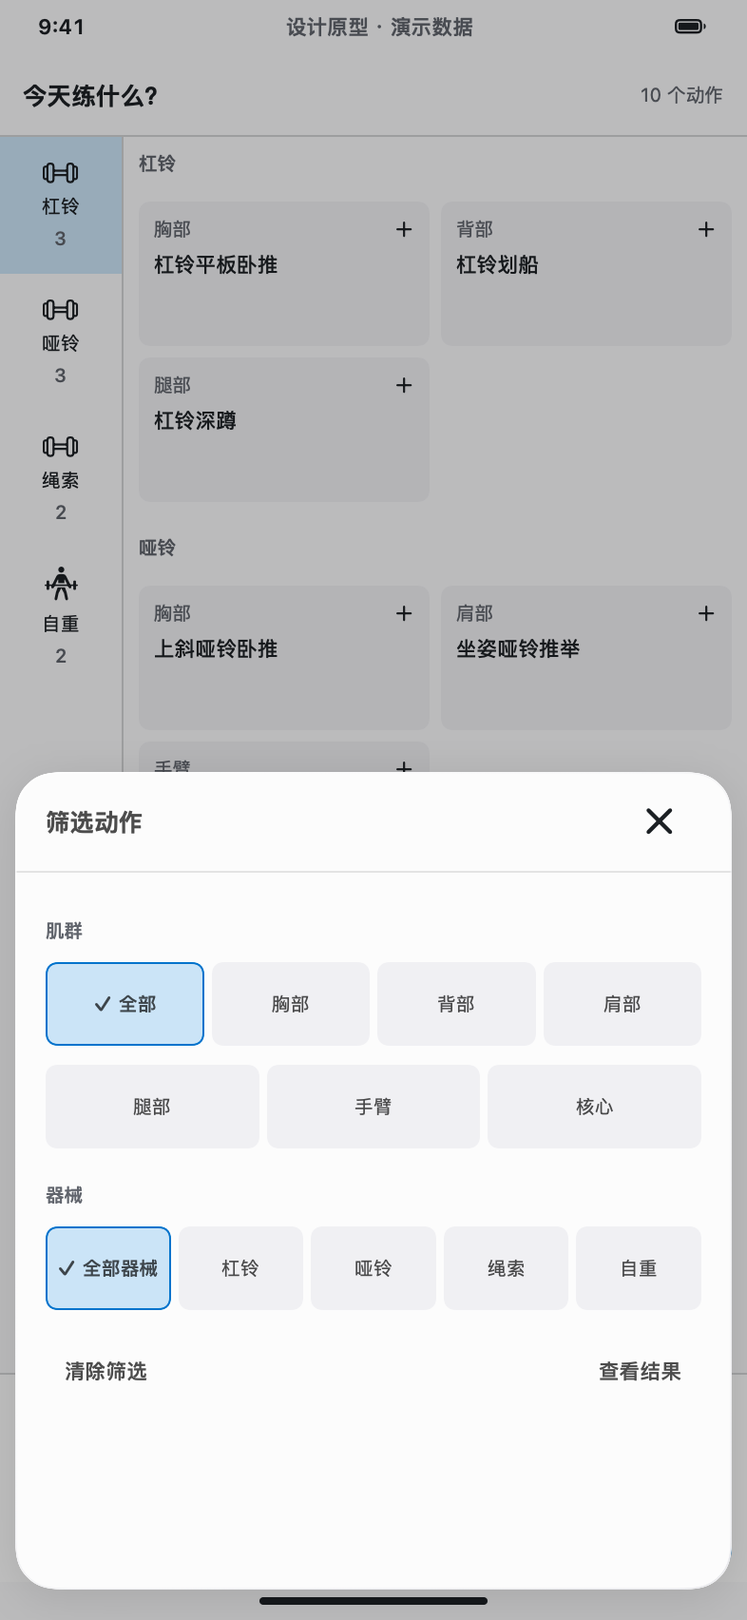
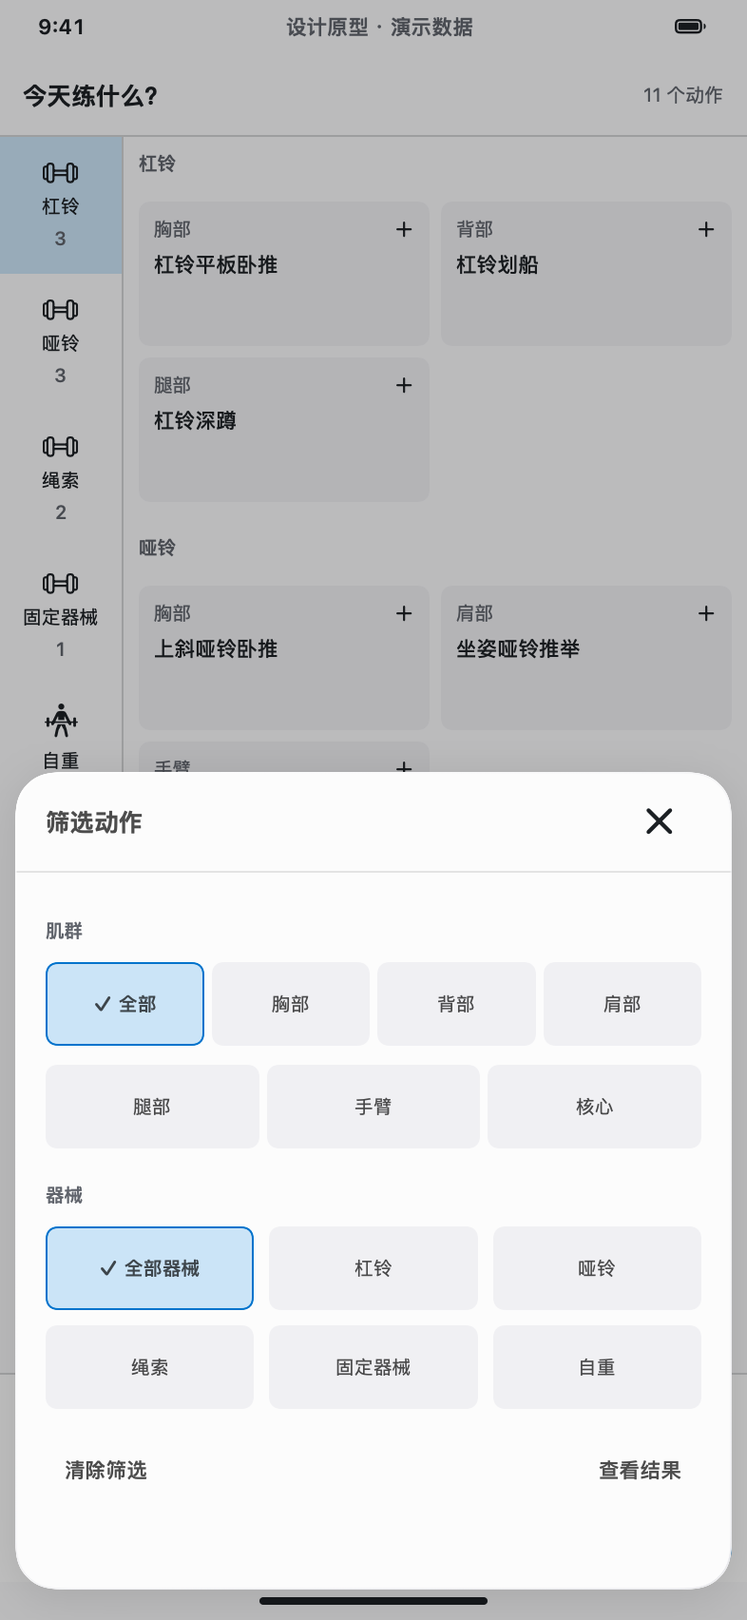
Publish B side-weight input and machine defaults

diff --git a/vitalstride/workout-layouts/index.html b/vitalstride/workout-layouts/index.html
@@ -7,29 +7,30 @@ permalink: /vitalstride/workout-layouts/
 <html lang="zh-CN">
 <head>
 <meta charset="utf-8"><meta name="viewport" content="width=device-width,initial-scale=1">
-<title>VitalStride B · 连续动作与玻璃浮层</title>
+<title>VitalStride B · 左右重量与器械默认</title>
 <style>
 :root{--bg:#f6f7f8;--paper:#fff;--ink:#1d232c;--muted:#596572;--line:#dce0e5;--accent:#1f5cbf;color-scheme:light}*{box-sizing:border-box}body{margin:0;background:var(--bg);color:var(--ink);font:16px/1.65 -apple-system,BlinkMacSystemFont,"PingFang SC",sans-serif}main{max-width:1320px;margin:auto;padding:36px 24px 64px}a{color:var(--accent);text-underline-offset:4px}h1{font-size:40px;line-height:1.2;letter-spacing:-1px;max-width:800px;margin:12px 0 20px}h2{font-size:25px;margin:32px 0 8px}h3{font-size:18px;margin:0 0 4px}p{color:var(--muted);max-width:850px}.eyebrow{font-size:12px;letter-spacing:2px;color:var(--muted)}header{border-bottom:1px solid var(--line);padding-bottom:16px}.links{display:flex;gap:20px;flex-wrap:wrap}.controls{display:flex;gap:18px;flex-wrap:wrap;position:sticky;top:0;background:var(--bg);z-index:2;padding:12px 0;border-bottom:1px solid var(--line)}fieldset{border:0;margin:0;padding:0;display:flex;gap:6px;align-items:center;flex-wrap:wrap}legend{float:left;font-size:13px;color:var(--muted);margin-right:8px}button{font:inherit;font-size:14px;min-height:44px;padding:8px 13px;border:1px solid var(--line);border-radius:6px;background:var(--paper);color:var(--ink);cursor:pointer}button[aria-pressed=true]{background:var(--ink);color:var(--paper);border-color:var(--ink)}button:focus-visible,a:focus-visible{outline:3px solid var(--accent);outline-offset:3px}.featured{display:grid;grid-template-columns:repeat(2,minmax(0,1fr));gap:20px;max-width:880px;margin:20px auto}.featured figcaption{min-height:105px}.matrix{display:grid;grid-template-columns:repeat(3,minmax(0,1fr));gap:16px;margin-top:16px}figure{margin:0;border:1px solid var(--line);background:var(--paper);border-radius:8px;overflow:hidden}figcaption{padding:16px;border-bottom:1px solid var(--line);min-height:130px}figcaption p{font-size:13px;margin:4px 0}figure img{display:block;width:100%;height:auto}.states{display:grid;grid-template-columns:repeat(4,minmax(0,1fr));gap:16px;margin-top:16px}.states figcaption{min-height:0;font-size:13px;padding:12px}.role-grid{display:grid;grid-template-columns:1fr 1fr;gap:16px}.note{border:1px solid var(--line);background:var(--paper);padding:20px;border-radius:8px}.note p{margin-bottom:0;font-size:14px}table{width:100%;border-collapse:collapse;font-size:14px}th,td{padding:12px 8px;border-bottom:1px solid var(--line);text-align:left;vertical-align:top}th{font-size:13px}code{font-size:12px;overflow-wrap:anywhere}footer{margin-top:40px;border-top:1px solid var(--line);padding-top:20px;font-size:13px;color:var(--muted)}@media(max-width:1000px){.matrix{grid-template-columns:repeat(2,1fr)}.states{grid-template-columns:repeat(3,1fr)}}@media(max-width:650px){main{padding:24px 14px}.matrix,.role-grid,.featured{grid-template-columns:1fr}.states{grid-template-columns:repeat(2,1fr)}h1{font-size:32px}.controls{position:static}}
 </style>
 <link rel="canonical" href="https://leepepe.github.io/vitalstride/workout-layouts/">
 <meta name="description" content="VitalStride 紧凑训练布局、动作选择和配套键盘的原生截图对比。">
-<meta property="og:title" content="VitalStride · B 连续动作与玻璃浮层">
+<meta property="og:title" content="VitalStride B · 左右重量与器械默认">
 <meta property="og:image" content="https://leepepe.github.io/vitalstride/workout-layouts/b-shots/rail-normal-light.png">
 </head>
 <body>
 <main>
 <nav aria-label="站点导航"><a href="/">← Lee Pepe 的博客</a></nav>
-<p>截图对比画廊 · 演示数据。按钮切换预览，训练输入需在原生 SwiftUI 原型中体验。</p><header><div class="eyebrow">VITALSTRIDE / SELECTED B · REFINEMENT</div><h1>B，继续向下滚动。<br>让操作浮起来。</h1><p>已按你的选择以 B 为主：右侧连续浏览全部动作，侧栏同步定位；保留独立 snackbar，以 Apple glass 增加操作层次。主题色仍单独设计，动作选择保留侧栏＋双列与底部操作。</p><div class="links"><a href="#chosen">查看 B 最新细化 ↓</a><a href="#layouts">上一轮三布局</a><a href="b-direction.html">B 行为与材质</a><a href="b-review.html">本次独立评审</a><a href="b-delivery.html">B 交付与验证</a><a href="#picker">动作选择与扩展输入</a><a href="north-star.html">区域职责与行为</a><a href="performance-audit.html">性能源码证据</a></div></header>
+<p>截图对比画廊 · 演示数据。按钮切换预览，训练输入需在原生 SwiftUI 原型中体验。</p><header><div class="eyebrow">VITALSTRIDE / SELECTED B · REFINEMENT</div><h1>B，紧凑记录。<br>重量输入更顺手。</h1><p>已按你的选择以 B 为主：右侧连续浏览全部动作，侧栏同步定位；保留独立 snackbar，以 Apple glass 增加操作层次。主题色仍单独设计，动作选择保留侧栏＋双列与底部操作。</p><div class="links"><a href="#weights">最新：左右与器械重量 ↓</a><a href="#chosen">B 滚动与玻璃 ↓</a><a href="#layouts">上一轮三布局</a><a href="b-direction.html">B 行为与材质</a><a href="b-review.html">B 滚动与玻璃评审</a><a href="b-delivery.html">B 交付与验证</a><a href="#picker">动作选择与扩展输入</a><a href="north-star.html">区域职责与行为</a><a href="performance-audit.html">性能源码证据</a></div></header>
+<section id="weights"><h2>B 新增 · 左右重量与器械默认</h2><p>键盘第二个辅助键显示“合计 / 左右”，点击展开重量方式。左右分别点选输入，可复制左侧到右侧、交换两侧。切换方式保留合计重量；不等重的两侧可往返恢复。</p><p>固定器械与绳索动作可设置常用起始配重，按当前动作记住。新组自动带入，也可明确带入本组草稿；设置默认值与保存本组分开，已有组保持原值。默认配重与空载阻力分开理解，本轮实现前者。</p><div class="links"><a href="weight-direction.html">重量交互与口径</a><a href="weight-review.html">本轮独立评审</a></div><div class="controls"><fieldset id="weight-mode"><legend>适配</legend><button data-value="light" aria-pressed="true">浅色</button><button data-value="dark" aria-pressed="false">深色</button></fieldset></div><div class="featured" id="weight-current"></div><div class="states" id="weight-details"></div><p>本轮独立截图初评30/35，3项P1修正后经6张新图独立复核确认解决，保留初评分。原生可运行原型使用内存演示数据；默认值不会跨启动持久化。网页用于切换和放大截图。</p></section>
 <section id="chosen"><h2>选定 B · 连续动作 + snackbar + glass</h2><p>右侧滚动进入下一动作，左侧高亮跟随。侧栏点击跳转，底栏“定位”返回操作对象。滚动不提交草稿，也不悄悄切换键盘绑定的组。蓝色标出浏览位置，铅笔标出操作对象。</p><p>休息 / 撤销用独立浮层，键盘打开时仍位于其上方。玻璃仅用于操作层，数据组表保留清晰的不透明卡面。</p>
 <div class="controls"><fieldset id="b-mode"><legend>适配</legend><button data-value="light" aria-pressed="true">浅色</button><button data-value="dark" aria-pressed="false">深色</button></fieldset><fieldset id="b-state"><legend>状态</legend><button data-value="normal" aria-pressed="true">记录</button><button data-value="keyboard" aria-pressed="false">输入</button><button data-value="rest" aria-pressed="false">休息 snackbar</button><button data-value="undo" aria-pressed="false">撤销 snackbar</button><button data-value="keyboard-rest" aria-pressed="false">输入＋休息</button><button data-value="keyboard-undo" aria-pressed="false">输入＋撤销</button><button data-value="rest-undo" aria-pressed="false">休息＋撤销</button><button data-value="keyboard-rest-undo" aria-pressed="false">输入＋休息＋撤销</button></fieldset></div><div class="featured" id="b-current"></div>
-<p>运行时 iOS 26 / macOS 26+ 使用原生 <code>glassEffect</code>；下方静态截图采用 material 近似，不能还原窗口背后的折射。图片采用演示数据；网页可切换截图，真实滚动需运行原生原型。</p><div class="states" id="b-details"></div></section>
+<p>运行时 iOS 26 / macOS 26+ 使用原生 <code>glassEffect</code>；下方静态截图采用 material 近似，不能还原窗口背后的折射。图片采用演示数据；网页可切换截图，真实滚动需运行原生原型。左右与器械重量见上方新增部分。</p><div class="states" id="b-details"></div></section>
 <section id="layouts"><h2>V2 历史 · 三个紧凑布局</h2><p>普通组行 52pt；不再用大标题卡和重复概览。顶部只读状态，底部高频操作；More 管理当前组 / 当前动作 / 训练，键盘辅助键处理输入扩展。浅深色用于适配检查，不作为风格方案。</p>
 <p>以下是上一次比较的52张历史图。现在已按用户选择细化 B；旧 B 的单动作留白与旧评分不代表顶部最新方案。</p>
 <div class="controls"><fieldset id="mode"><legend>适配</legend><button data-value="light" aria-pressed="true">浅色</button><button data-value="dark" aria-pressed="false">深色</button></fieldset><fieldset id="state"><legend>状态</legend><button data-value="normal" aria-pressed="true">记录</button><button data-value="keyboard" aria-pressed="false">输入</button><button data-value="rest" aria-pressed="false">休息</button><button data-value="undo" aria-pressed="false">撤销</button><button data-value="keyboard-rest" aria-pressed="false">输入＋休息</button><button data-value="keyboard-undo" aria-pressed="false">输入＋撤销</button></fieldset></div>
 <div class="matrix" id="matrix"></div></section>
-<h2>每块只负责一件事</h2><table><thead><tr><th>区域</th><th>看什么 / 做什么</th><th>行为边界</th></tr></thead><tbody><tr><td>头部 / 导航</td><td>训练统计、动作进度、浏览与跳转</td><td>B 滚动只更新浏览高亮；明确点击切对象时，有效草稿保存、无效阻止</td></tr><tr><td>组表 / 组矩阵</td><td>查看记录、选择任意主组、点数字编辑</td><td>勾只作用于明确选择组；结束训练不放在这里</td></tr><tr><td>B 独立 snackbar</td><td>60pt 休息 / 撤销浮层</td><td>撤销优先，休息继续；无提示不占固定行；位于键盘 / 主操作上方</td></tr><tr><td>底部主操作</td><td>更多、加组、完成本组</td><td>保留常用路径，训练管理进入 More 并确认</td></tr><tr><td>键盘辅助区</td><td>动作 / 组号、上次、复制下组、RPE、组类型、More</td><td>扩展面板替换数字区；不额外顶高；RPE / 类型随草稿保存或放弃</td></tr></tbody></table>
-<section id="picker"><h2>动作选择与输入扩展</h2><p>侧栏只做器械分区跳转；底部搜索稳定挂载，Filter 从底部展开；选择不会重算结果。RPE、热身 / 正式类型可操作；单侧、子组、AI 等生产能力的功能位置另作说明，未接入此原型。</p><div class="states" id="details"></div></section>
-<h2>密度、性能和验证分开看</h2><p>B 本次独立截图全量评审 30/35；侧栏对比度的最后一项 P1 已修正并独立复核，保留原评分。SwiftPM 构建与14项状态测试通过；新增测试验证浏览不提交或切换输入对象。V2 历史评分另见旧报告。</p><div class="role-grid"><div class="note"><h3>这轮可检查</h3><p>可运行的原生 SwiftUI 工作室、任意主组输入与草稿行为、跨筛选选择、缓存搜索。32 张新图覆盖记录 / 输入 / 休息 / 撤销及组合、跨动作浏览、明暗、窄屏与扩展；旧52张图保留比较。</p></div><div class="note"><h3>生产卡顿的具体路径</h3><p>源码发现历史重复 fetch、键盘上下文不变仍重发 rootView、聚合重复求值。审计区分事实与待测推断；本轮尚未执行生产性能修复或 Instruments 测量。</p></div></div>
+<h2>每块只负责一件事</h2><table><thead><tr><th>区域</th><th>看什么 / 做什么</th><th>行为边界</th></tr></thead><tbody><tr><td>头部 / 导航</td><td>训练统计、动作进度、浏览与跳转</td><td>B 滚动只更新浏览高亮；明确点击切对象时，有效草稿保存、无效阻止</td></tr><tr><td>组表 / 组矩阵</td><td>查看记录、选择任意主组、点数字编辑</td><td>勾只作用于明确选择组；结束训练不放在这里</td></tr><tr><td>B 独立 snackbar</td><td>60pt 休息 / 撤销浮层</td><td>撤销优先，休息继续；无提示不占固定行；位于键盘 / 主操作上方</td></tr><tr><td>底部主操作</td><td>更多、加组、完成本组</td><td>保留常用路径，训练管理进入 More 并确认</td></tr><tr><td>键盘辅助区</td><td>动作 / 组号、上次、合计 / 左右、RPE、组类型、More</td><td>扩展面板替换数字区；不额外顶高；RPE / 类型随草稿保存或放弃</td></tr></tbody></table>
+<section id="picker"><h2>动作选择与输入扩展</h2><p>侧栏只做器械分区跳转；底部搜索稳定挂载，Filter 从底部展开；选择不会重算结果。RPE、热身 / 正式类型可操作；左右重量已接入；单侧次数、子组、AI 等能力仍保留后续扩展位置。</p><div class="states" id="details"></div></section>
+<h2>密度、性能和验证分开看</h2><p>左右重量与器械默认本轮独立截图初评30/35，3项P1已修正并独立复核。前轮B滚动与玻璃评审也为30/35，报告分别保留。SwiftPM构建与18项状态测试通过；本轮新增4项覆盖左右往返、校验、默认作用范围及取消行为。V2历史评分另见旧报告。</p><div class="role-grid"><div class="note"><h3>这轮可检查</h3><p>可运行的原生 SwiftUI 工作室、任意主组输入与草稿行为、跨筛选选择、缓存搜索。18张重量新图覆盖左右方式、输入、保存和器械默认；32张B图覆盖记录 / 输入 / 休息 / 撤销及组合、跨动作浏览、明暗、窄屏与扩展；旧52张图保留比较。</p></div><div class="note"><h3>生产卡顿的具体路径</h3><p>源码发现历史重复 fetch、键盘上下文不变仍重发 rootView、聚合重复求值。审计区分事实与待测推断；本轮尚未执行生产性能修复或 Instruments 测量。</p></div></div>
 <p>运行 <code>swift run --package-path Prototype CompactWorkoutStudio</code>。所有图是 macOS ImageRenderer 的手机尺寸图，使用演示数据；不代表 iOS Simulator、VoiceOver 或真实性能通过。</p><div class="links"><a href="delivery.html">交付与验证</a><a href="review.html">独立初评</a><a href="review-followup.html">修正后复核</a></div><noscript><p>也可直接打开 <a href="shots/table-normal-light.png">A 方案屏幕图</a>。</p></noscript><footer>my-designer · 选定 B · 仅 Prototype · 主题色另行设计</footer>
 </main>
 <script>
@@ -37,6 +38,9 @@ const current={mode:'light',state:'normal'};
 const layouts={table:['A · 当前动作表格','当前动作完整组表＋其他动作紧凑队列。保留上次对照，接近当前操作习惯。'],rail:['B · 侧栏工作台','动作导航固定在侧边，右侧只看当前动作。窄屏历史列移入输入辅助。'],matrix:['C · 全计划组矩阵','四组一排，持续查看全部动作。点单元格编辑；适合计划扫读，历史对照需进入输入。']};
 function figure(src,title,detail){const fig=document.createElement('figure'),cap=document.createElement('figcaption'),h=document.createElement('h3'),p=document.createElement('p'),a=document.createElement('a'),img=document.createElement('img');h.textContent=title;p.textContent=detail;cap.append(h,p);a.href=src;a.target='_blank';a.rel='noopener';img.src=src;img.alt=title+'，'+detail+'，演示数据';img.loading='lazy';a.append(img);fig.append(cap,a);return fig;}
 function draw(){const matrix=document.getElementById('matrix');matrix.textContent='';for(const[id,[title,detail]]of Object.entries(layouts))matrix.append(figure(`shots/${id}-${current.state}-${current.mode}.png`,title,detail));const details=document.getElementById('details');details.textContent='';for(const[id,title,detail]of[['picker','侧栏＋双列','搜索、Filter、确认在底部'],['picker-filter','底部筛选','肌群 / 器械；保留已选'],['picker-empty','无结果继续搜索','TextField 与结果宿主不卸载'],['more','More 按作用范围分组','当前组 / 当前动作 / 整次训练'],['rpe','键盘 RPE 面板','替换数字区，保存 / 放弃跟随草稿']])details.append(figure(`shots/table-${id}-${current.mode}.png`,title,detail));for(const[id,[title]]of Object.entries(layouts))details.append(figure(`shots/${id}-keyboard-${current.mode}-large-narrow.png`,title+' · 375pt','大字回退分支；非 iOS 字体验收'));}
+const weightView={mode:'light'};
+function drawWeights(){const mode=weightView.mode,root=document.getElementById('weight-current');root.textContent='';root.append(figure(`weight-shots/rail-split-keyboard-${mode}.png`,'左右分别输入','点左 / 右字段输入，次数与保存位置保持不变。'),figure(`weight-shots/rail-machine-default-${mode}.png`,'器械默认重量','独立保存默认配重；已有组和本组草稿保持原值。'));const details=document.getElementById('weight-details');details.textContent='';for(const[state,title,detail]of [['weight-mode','重量方式入口','合计与左右互切，保持合计负荷。'],['split-mode','复制与交换','左 → 右复制，或交换两侧；返回数字继续输入。'],['split-saved','保存后的组表','左右数值分别保留标签，可再次点选编辑。'],['machine-mode','带入器械默认','显示当前动作默认45kg，明确点击带入草稿。'],['machine-applied','默认已带入本组草稿','45kg等待保存；已有组仍保持20kg。'],['machine-more','More 按作用范围','当前组重量方式、当前动作默认配重。']])details.append(figure(`weight-shots/rail-${state}-${mode}.png`,title,detail));details.append(figure(`weight-shots/rail-split-keyboard-${mode}-large-narrow.png`,'375pt · 左右输入','窄屏大字分支；非真实 iOS Dynamic Type 验收。'));}
+document.getElementById('weight-mode').addEventListener('click',e=>{const b=e.target.closest('button');if(!b)return;weightView.mode=b.dataset.value;for(const c of document.querySelectorAll('#weight-mode button'))c.setAttribute('aria-pressed',String(c===b));drawWeights();});drawWeights();
 const chosen={mode:'light',state:'normal'};
 function drawB(){const root=document.getElementById('b-current');root.textContent='';root.append(figure(`b-shots/rail-${chosen.state}-${chosen.mode}.png`,'B · 连续动作工作台','侧栏独立滚动；右侧连续组表；底部操作对象可定位。'),figure(`b-shots/rail-keyboard-rest-${chosen.mode}.png`,'B · 键盘与休息 snackbar','输入目标稳定；休息 / 撤销独立浮起；数字区保留输入辅助。'));const details=document.getElementById('b-details');details.textContent='';for(const[state,title,detail]of [['browse','浏览另一个动作','侧栏高亮跟随右侧，底栏仍标记原操作对象。'],['keyboard-browse','输入时浏览另一个动作','浏览上斜卧推时，键盘仍绑定平板卧推第3组。'],['more','More 玻璃抽屉','当前组 / 当前动作 / 整次训练分组。'],['rpe','RPE 输入扩展','在数字区域替换，保存 / 放弃跟随草稿。'],['picker','配套动作选择','侧栏＋双列，搜索、Filter 与确认在底部。'],['picker-filter','筛选选中态','描边与勾选强化深色辨认。'],['picker-empty','无结果','保留搜索与清除入口。']])details.append(figure(`b-shots/rail-${state}-${chosen.mode}.png`,title,detail));details.append(figure(`b-shots/rail-keyboard-rest-${chosen.mode}-large-narrow.png`,'375pt · 输入＋休息','窄屏大字分支；非真实 iOS Dynamic Type 验收。'));}
 for(const[id,key]of [['b-mode','mode'],['b-state','state']])document.getElementById(id).addEventListener('click',e=>{const b=e.target.closest('button');if(!b)return;chosen[key]=b.dataset.value;for(const c of document.querySelectorAll(`#${id} button`))c.setAttribute('aria-pressed',String(c===b));drawB();});drawB();

diff --git a/vitalstride/workout-layouts/weight-direction.html b/vitalstride/workout-layouts/weight-direction.html
@@ -1,0 +1,32 @@
+<!doctype html>
+<html lang="zh-CN"><head><meta charset="utf-8"><meta name="viewport" content="width=device-width,initial-scale=1"><title>左右重量与器械默认 · VitalStride B</title><link rel="canonical" href="https://leepepe.github.io/vitalstride/workout-layouts/weight-direction.html"><link rel="stylesheet" href="documents.css"></head><body><main><nav aria-label="站点导航"><a href="./">← 返回布局画廊</a><a href="/">Lee Pepe 的博客</a></nav><h1>B：左右重量与器械默认配重</h1>
+<p>2026-10-16 · my-designer · 原生 SwiftUI / DesignKit · 隔离 Prototype</p>
+<p><a href="https://leepepe.github.io/vitalstride/workout-layouts/#weights">公开预览</a> · <a href="b-direction.html">B 布局与玻璃</a></p>
+<h2>输入入口与口径</h2>
+<ul>
+<li>键盘第二个辅助键显示当前重量方式「合计 / 左右」，展开固定188pt重量面板；More → 当前组 → 重量方式也可进入。复制下组仍在More。</li>
+<li>合计表示这一组记录的总负荷；左右表示左右两侧分别记录。第一次由合计切左右时平分；奇数最小精度按0.01kg分配，保持合计不变。切回合计相加；不等重两侧在合计未变时可再次恢复。</li>
+<li>点组表或键盘左／右字段编辑该侧；重量支持两位小数，0–999kg，次数1–999。左→右复制和交换左右为明确动作，会改变相应数值。合计超过999kg时合计模式禁用并说明原因。</li>
+<li>左右模式也共用一组次数；单侧次数、子组仍属于后续扩展。</li>
+<li>两侧均纳入容量演示计算；复制下组、保存、放弃草稿支持两侧；空值阻止提交／切换操作对象。被动浏览其他动作仍不更换输入目标。</li>
+</ul>
+<h2>固定器械默认重量</h2>
+<p>本轮将用户的“默认重量”解释为<strong>常用起始配重</strong>。空载阻力／杆重与加片相加没有在此轮混入；若需要基础重量，可沿独立口径继续设计。</p>
+<ul>
+<li>固定器械／绳索动作：重量面板 → 设置默认，或More → 当前动作 → 器械默认重量。自由重量和自重不出现这个入口。</li>
+<li>默认配重按当前动作区分，单位kg、口径为合计。没有默认值时不自动假定；「带入默认」禁用，保留「设置默认」。</li>
+<li>独立输入表单复用数字区；主按钮变为「保存默认」，关闭按钮为取消。保存只更新默认值，保留本组草稿；不会顺手记组或触发休息。</li>
+<li>新增组时带入默认；已有组不重写。「带入默认」明确替换当前草稿重量，仍须保存；若是左右模式则按合计分配到两侧。</li>
+<li>More可清除默认。示例45kg为演示值，没有推荐含义；默认值仅存原型会话内存，未跨启动持久化，也不关联真实健身房／实体器械身份。</li>
+</ul>
+<h2>视觉和验收</h2>
+<p>保留64pt侧栏、连续右侧组表、独立snackbar、玻璃操作层；组行52pt，左右字段各≥44pt。重量面板替换数字区，不增加键盘高度。主题色没有变更。</p>
+<p>本轮18张专用截图（8态明暗＋375pt左右输入明暗）另存<code>weight-shots/</code>，同步刷新32张B图，保留52张V2历史图。使用macOS ImageRenderer的手机尺寸演示图，非iOS交互、VoiceOver、真实Dynamic Type、原生Liquid Glass光学效果或性能验收。</p>
+<p>验证命令：</p>
+<pre><code class="language-bash">swift build --package-path Prototype
+swift test --package-path Prototype
+swift run --package-path Prototype CompactWorkoutStudio --render-weights Prototype/CompactEvidence/weight-shots
+swift run --package-path Prototype CompactWorkoutStudio --render-b Prototype/CompactEvidence/b-shots
+</code></pre>
+<p>构建通过，18项状态测试通过（本轮新增4项）。覆盖不等重往返、左右交换／复制、保存／再编辑、两侧容量、无效右侧拦截、0.01kg合计保持、默认保存与本组草稿分离、新组带入、取消／清除及非法默认输入。</p>
+<p>独立截图初评30/35，3项P1修正后经6张指定新图独立复核确认解决，保留初评分；完整结果见<a href="weight-review.html">本轮评审</a>。本轮未改生产App或查询／持久化路径，生产移植继续按仓库PR-required流程单独交付。</p><footer>VitalStride B · 2026-10-16 · 原型与演示数据</footer></main></body></html>

diff --git a/vitalstride/workout-layouts/weight-review.html b/vitalstride/workout-layouts/weight-review.html
@@ -1,0 +1,68 @@
+<!doctype html>
+<html lang="zh-CN"><head><meta charset="utf-8"><meta name="viewport" content="width=device-width,initial-scale=1"><title>重量输入评审 · VitalStride B</title><link rel="canonical" href="https://leepepe.github.io/vitalstride/workout-layouts/weight-review.html"><link rel="stylesheet" href="documents.css"></head><body><main><nav aria-label="站点导航"><a href="./">← 返回布局画廊</a><a href="/">Lee Pepe 的博客</a></nav><h1>左右重量与器械默认：独立评审</h1>
+<p>2026-10-16 · 本轮独立截图评审，未沿用前轮B得分。</p>
+<p><strong>初评30/35，无P0，发现3项P1。</strong> 共检查20/20张：<code>weight-shots/</code>全部18张，加B More浅色、器械筛选深色。</p>
+<div class="table-scroll"><table>
+<thead>
+<tr>
+<th>维度</th>
+<th style="text-align: right;">分数</th>
+<th>初评判断</th>
+</tr>
+</thead>
+<tbody>
+<tr>
+<td>间距与留白</td>
+<td style="text-align: right;">4</td>
+<td>输入区域稳定，器械筛选局部拥挤</td>
+</tr>
+<tr>
+<td>字体层级</td>
+<td style="text-align: right;">4</td>
+<td>数字突出，左右字段需就地标注单位</td>
+</tr>
+<tr>
+<td>颜色与对比</td>
+<td style="text-align: right;">4</td>
+<td>文字清楚，深色输入焦点偏弱</td>
+</tr>
+<tr>
+<td>层级与浮层</td>
+<td style="text-align: right;">5</td>
+<td>默认设置和当前组录入区分明确</td>
+</tr>
+<tr>
+<td>分组与对齐</td>
+<td style="text-align: right;">5</td>
+<td>左右／次数、模式／辅助操作分组清晰</td>
+</tr>
+<tr>
+<td>数据与状态表达</td>
+<td style="text-align: right;">4</td>
+<td>不等左右值及默认应用结果可辨认</td>
+</tr>
+<tr>
+<td>平台适配</td>
+<td style="text-align: right;">4</td>
+<td>明暗协调，375pt主要操作完整</td>
+</tr>
+</tbody>
+</table></div>
+<h2>修正</h2>
+<ol>
+<li>深色活动字段底色与非活动底色初评仅约1.09:1：增加1pt DesignKit <code>primaryText</code>描边，以及键入时光标／全选时数字选区。</li>
+<li>左右字段缺少就近单位：改为12pt「左 kg／右 kg」，44pt控件内标签与数字两行排版，适配375pt。</li>
+<li>器械六项同排挤压：改为3列×2行，每项44pt，间距8pt，内部水平12pt。</li>
+</ol>
+<p>所有相关截图已重新渲染；下方记录独立复核结论，执行者不自行提高评分。</p>
+<h2>修正后独立复核</h2>
+<p>复核实际检查6/6张指定新图：393pt与375pt左右键盘的明暗版本，以及器械筛选明暗版本。三项P1均已解决，本次范围内无新增P0/P1；保留初评30/35，不另行推算新分数。</p>
+<ul>
+<li>输入焦点：明暗模式均有蓝色描边和插入光标，深色当前「右」字段可辨认。</li>
+<li>就近单位：「左 kg／右 kg」直接显示在字段内；375pt标签、数值及保存按钮完整。</li>
+<li>筛选密度：3列×2行中「全部器械」「固定器械」有足够内边距，无贴边或裁切。</li>
+</ul>
+<p>复核截图使用24／26，尚未覆盖六位数字符串；此结论仅覆盖静态截图，不包含真实手势或原生无障碍验证。</p>
+<h2>保留项与边界</h2>
+<p>初评确认左右24／26在表格中分别呈现，复制与交换为独立操作；默认表单明确「用于新组，已有记录保持不变」，主按钮为「保存默认」；带入图只有当前组变为45，其余组仍20；自由重量More没有器械默认项。没有主要输入、数字键盘或保存按钮裁切／重叠。</p>
+<p>这些仅为macOS ImageRenderer静态截图。状态逻辑由18项SwiftPM测试另证；本评审未验证真实手势、滚动可达性、VoiceOver、iOS Dynamic Type、原生Glass光学效果或性能，未修改代码。</p><footer>VitalStride B · 2026-10-16 · 原型与演示数据</footer></main></body></html>

diff --git a/vitalstride/workout-layouts/b-delivery.html b/vitalstride/workout-layouts/b-delivery.html
@@ -1,5 +1,8 @@
 <!doctype html>
-<html lang="zh-CN"><head><meta charset="utf-8"><meta name="viewport" content="width=device-width,initial-scale=1"><title>B 交付与验证 · VitalStride B</title><link rel="canonical" href="https://leepepe.github.io/vitalstride/workout-layouts/b-delivery.html"><link rel="stylesheet" href="documents.css"></head><body><main><nav aria-label="站点导航"><a href="./">← 返回布局画廊</a><a href="/">Lee Pepe 的博客</a></nav><h1>B 细化交付</h1>
+<html lang="zh-CN"><head><meta charset="utf-8"><meta name="viewport" content="width=device-width,initial-scale=1"><title>B 交付与验证 · VitalStride B</title><link rel="canonical" href="https://leepepe.github.io/vitalstride/workout-layouts/b-delivery.html"><link rel="stylesheet" href="documents.css"></head><body><main><nav aria-label="站点导航"><a href="./">← 返回布局画廊</a><a href="/">Lee Pepe 的博客</a></nav><blockquote>
+<p>后续重量输入扩展及18项状态测试见 <a href="weight-direction.html">左右重量与器械默认</a>；下文为滚动与玻璃阶段交付。</p>
+</blockquote>
+<h1>B 细化交付</h1>
 <p><strong><a href="https://leepepe.github.io/vitalstride/workout-layouts/">最新公开画廊</a></strong> · <a href="index.html">离线画廊</a> · 2026-10-16</p>
 <p>用户选择 B。本次由 my-designer 主导，只改隔离的 Prototype；生产 AppUI 尚未移植。</p>
 <h2>本次结果</h2>

diff --git a/vitalstride/workout-layouts/b-direction.html b/vitalstride/workout-layouts/b-direction.html
@@ -1,5 +1,8 @@
 <!doctype html>
-<html lang="zh-CN"><head><meta charset="utf-8"><meta name="viewport" content="width=device-width,initial-scale=1"><title>B 行为与材质 · VitalStride B</title><link rel="canonical" href="https://leepepe.github.io/vitalstride/workout-layouts/b-direction.html"><link rel="stylesheet" href="documents.css"></head><body><main><nav aria-label="站点导航"><a href="./">← 返回布局画廊</a><a href="/">Lee Pepe 的博客</a></nav><h1>B 定稿细化：连续动作、snackbar 与玻璃浮层</h1>
+<html lang="zh-CN"><head><meta charset="utf-8"><meta name="viewport" content="width=device-width,initial-scale=1"><title>B 行为与材质 · VitalStride B</title><link rel="canonical" href="https://leepepe.github.io/vitalstride/workout-layouts/b-direction.html"><link rel="stylesheet" href="documents.css"></head><body><main><nav aria-label="站点导航"><a href="./">← 返回布局画廊</a><a href="/">Lee Pepe 的博客</a></nav><blockquote>
+<p>最新重量输入扩展见 <a href="weight-direction.html">左右重量与器械默认</a>。</p>
+</blockquote>
+<h1>B 定稿细化：连续动作、snackbar 与玻璃浮层</h1>
 <p>2026-10-16 · 用户选定 B，替代 V2 中 C 的推荐。主题色继续独立，保留 DesignKit blue/slate。仅 Prototype，与生产 AppUI 隔离。</p>
 <h2>布局与行为合同</h2>
 <ul>

diff --git a/vitalstride/workout-layouts/b-review.html b/vitalstride/workout-layouts/b-review.html
@@ -1,5 +1,8 @@
 <!doctype html>
-<html lang="zh-CN"><head><meta charset="utf-8"><meta name="viewport" content="width=device-width,initial-scale=1"><title>B 设计评审 · VitalStride B</title><link rel="canonical" href="https://leepepe.github.io/vitalstride/workout-layouts/b-review.html"><link rel="stylesheet" href="documents.css"></head><body><main><nav aria-label="站点导航"><a href="./">← 返回布局画廊</a><a href="/">Lee Pepe 的博客</a></nav><h1>B 独立设计评审</h1>
+<html lang="zh-CN"><head><meta charset="utf-8"><meta name="viewport" content="width=device-width,initial-scale=1"><title>B 设计评审 · VitalStride B</title><link rel="canonical" href="https://leepepe.github.io/vitalstride/workout-layouts/b-review.html"><link rel="stylesheet" href="documents.css"></head><body><main><nav aria-label="站点导航"><a href="./">← 返回布局画廊</a><a href="/">Lee Pepe 的博客</a></nav><blockquote>
+<p>本报告为滚动与玻璃阶段评审；新增左右／器械默认入口的当前评审见 <a href="weight-review.html">重量输入评审</a>。</p>
+</blockquote>
+<h1>B 独立设计评审</h1>
 <p>2026-10-16 · 独立 design-reviewer · 本次32张B截图，不沿用V2评分。</p>
 <h2>最终全量复核</h2>
 <p><strong>30/35，未发现P0，发现1项P1。</strong> B可继续作为选定设计方向。</p>
